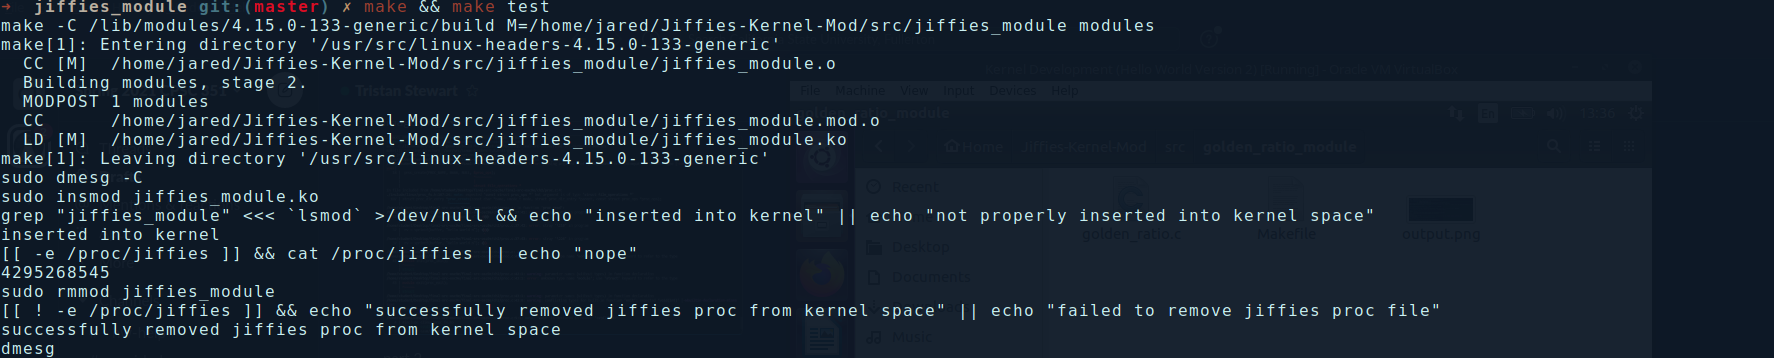
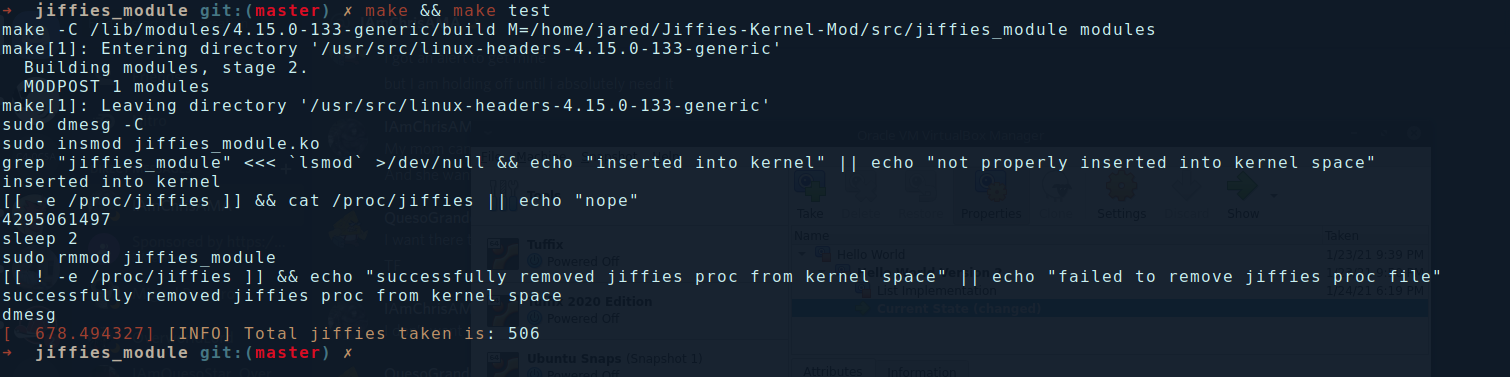
added time change

Changed region(s): [[0.0, 0.0, 0.9649, 1.0]]

diff --git a/src/seconds_module/seconds_module.c b/src/seconds_module/seconds_module.c
@@ -29,6 +29,8 @@ MODULE_VERSION("0.01");
 #define BUFFER_SIZE 128
 #define PROC_NAME "seconds"
 
+long init_seconds = 0;
+
 ssize_t proc_read(struct file *file, char __user *usr_buf, size_t count, loff_t *pos) {
     int rv = 0;
     char buffer[BUFFER_SIZE];
@@ -38,7 +40,8 @@ ssize_t proc_read(struct file *file, char __user *usr_buf, size_t count, loff_t 
         return 0;
     }
     completed = 1;
-    rv = sprintf(buffer, "%lu\n", (jiffies / HZ));
+    init_seconds = (jiffies / HZ);
+    rv = sprintf(buffer, "%lu\n", init_seconds);
     copy_to_user(usr_buf, buffer, rv);
     return rv;
 }
@@ -55,6 +58,8 @@ static int __init proc_init(void) {
 }
 static void __exit proc_exit(void) {
     remove_proc_entry(PROC_NAME, NULL);
+
+    printk(KERN_INFO "[INFO] Total time taken is %lu\n", ((jiffies / HZ) - init_seconds));
 }
 
 module_init(proc_init);

diff --git a/src/jiffies_module/jiffies_module.c b/src/jiffies_module/jiffies_module.c
@@ -32,6 +32,7 @@ MODULE_VERSION("0.01");
 
 #define BUFFER_SIZE 128
 #define PROC_NAME "jiffies"
+long init_jiffies = 0;
 
 ssize_t proc_read(struct file *file, char __user *usr_buf, size_t count, loff_t *pos) {
     int rv = 0;
@@ -42,7 +43,8 @@ ssize_t proc_read(struct file *file, char __user *usr_buf, size_t count, loff_t 
         return 0;
     }
     completed = 1;
-    rv = sprintf(buffer, "%lu\n", jiffies);
+    init_jiffies = jiffies;
+    rv = sprintf(buffer, "%lu\n", init_jiffies);
     copy_to_user(usr_buf, buffer, rv);
     return rv;
 }
@@ -59,6 +61,7 @@ static int __init proc_init(void) {
 }
 static void __exit proc_exit(void) {
     remove_proc_entry(PROC_NAME, NULL);
+    printk(KERN_INFO "[INFO] Total jiffies taken is: %lu\n", (jiffies - init_jiffies));
 }
 
 module_init(proc_init);
